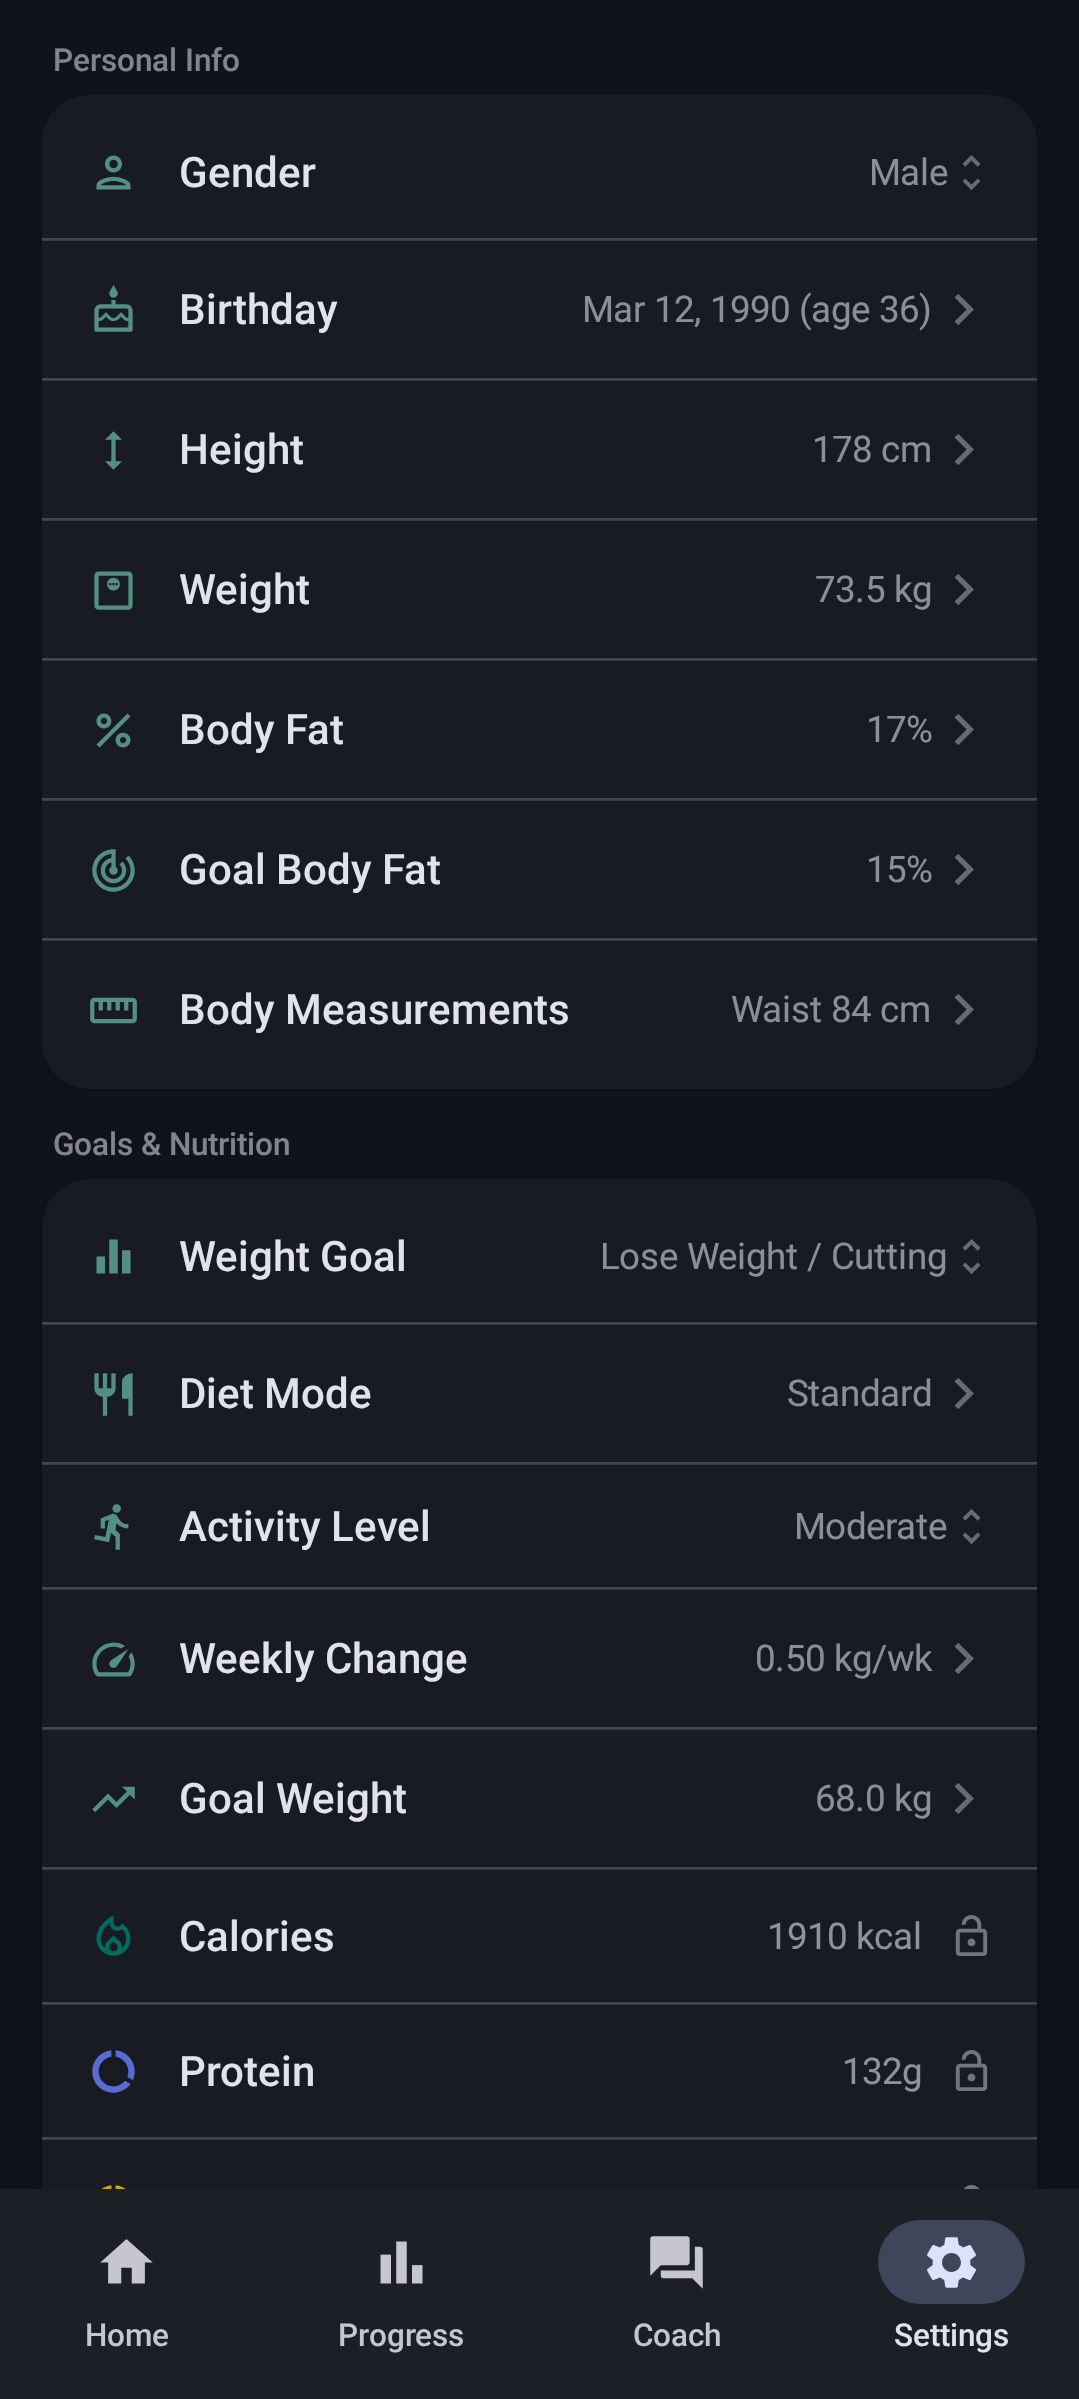
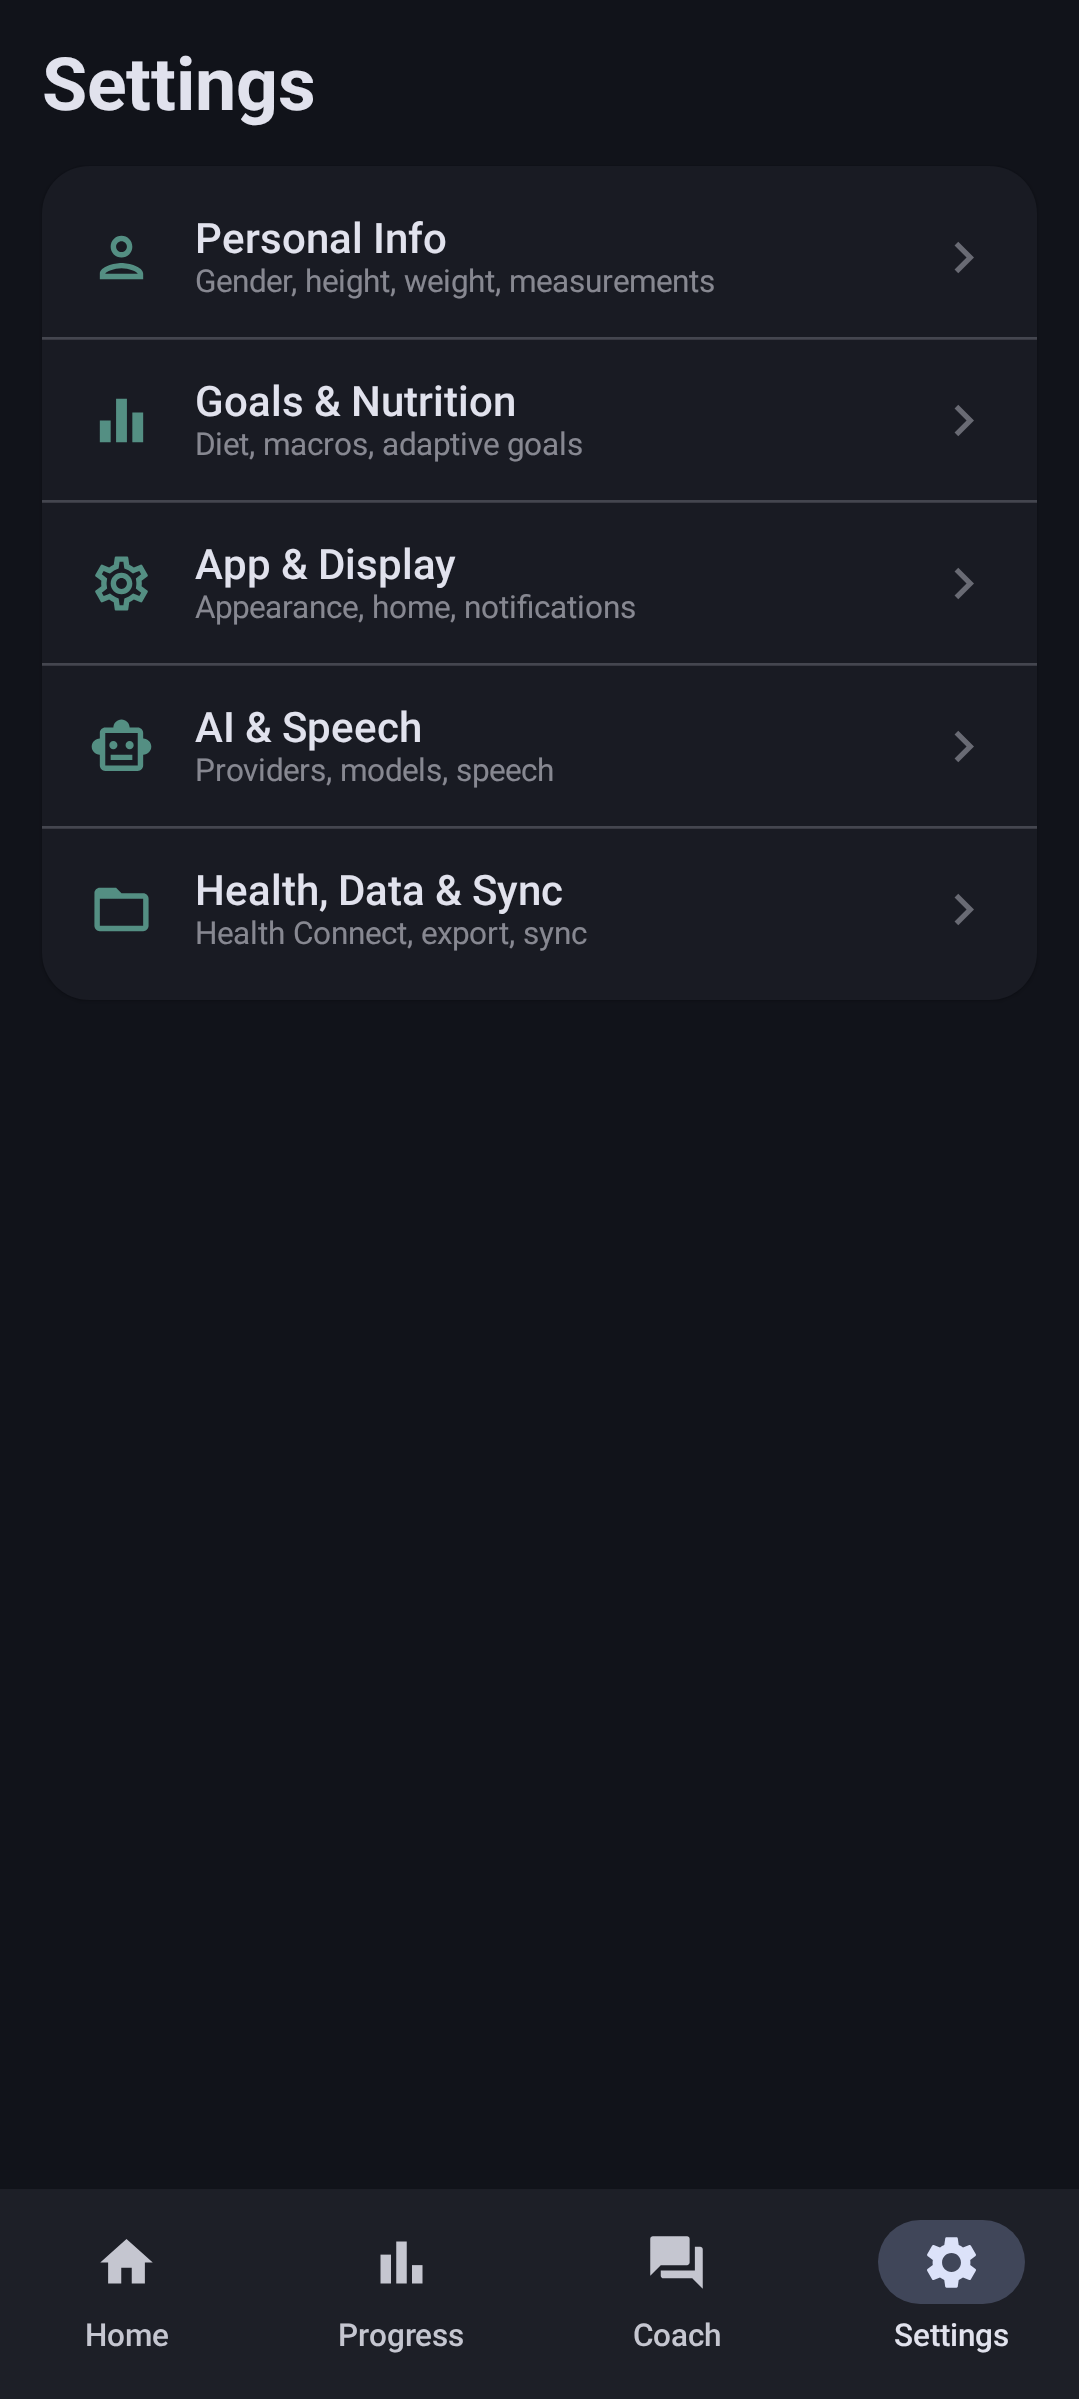
Release 3.3.0: settings hub drill-down on Android and PWA.

diff --git a/web/app/sw.js b/web/app/sw.js
@@ -2,7 +2,7 @@
 // injection, which fights the no-bundler decision for this app). Caches only
 // the static app shell, cache-first, versioned; never touches user data
 // (IndexedDB/Cache API stay cleanly separated).
-const CACHE_NAME = "chompass-shell-v2";
+const CACHE_NAME = "chompass-shell-v3";
 
 const SHELL_ASSETS = [
   "./",

diff --git a/docs/CHANGELOG.md b/docs/CHANGELOG.md
@@ -4,6 +4,12 @@ All notable changes to Chompass are documented here.
 
 ## [Unreleased]
 
+## [3.3.0] - 2026-07-29
+
+### Changed
+
+- Settings uses a compact hub with drill-down groups on Android and the PWA (Personal, Goals & Nutrition, App & Display, AI & Speech, Health/Data/Sync, About) for easier overview.
+
 ## [3.2.0] - 2026-07-28
 
 ### Added
